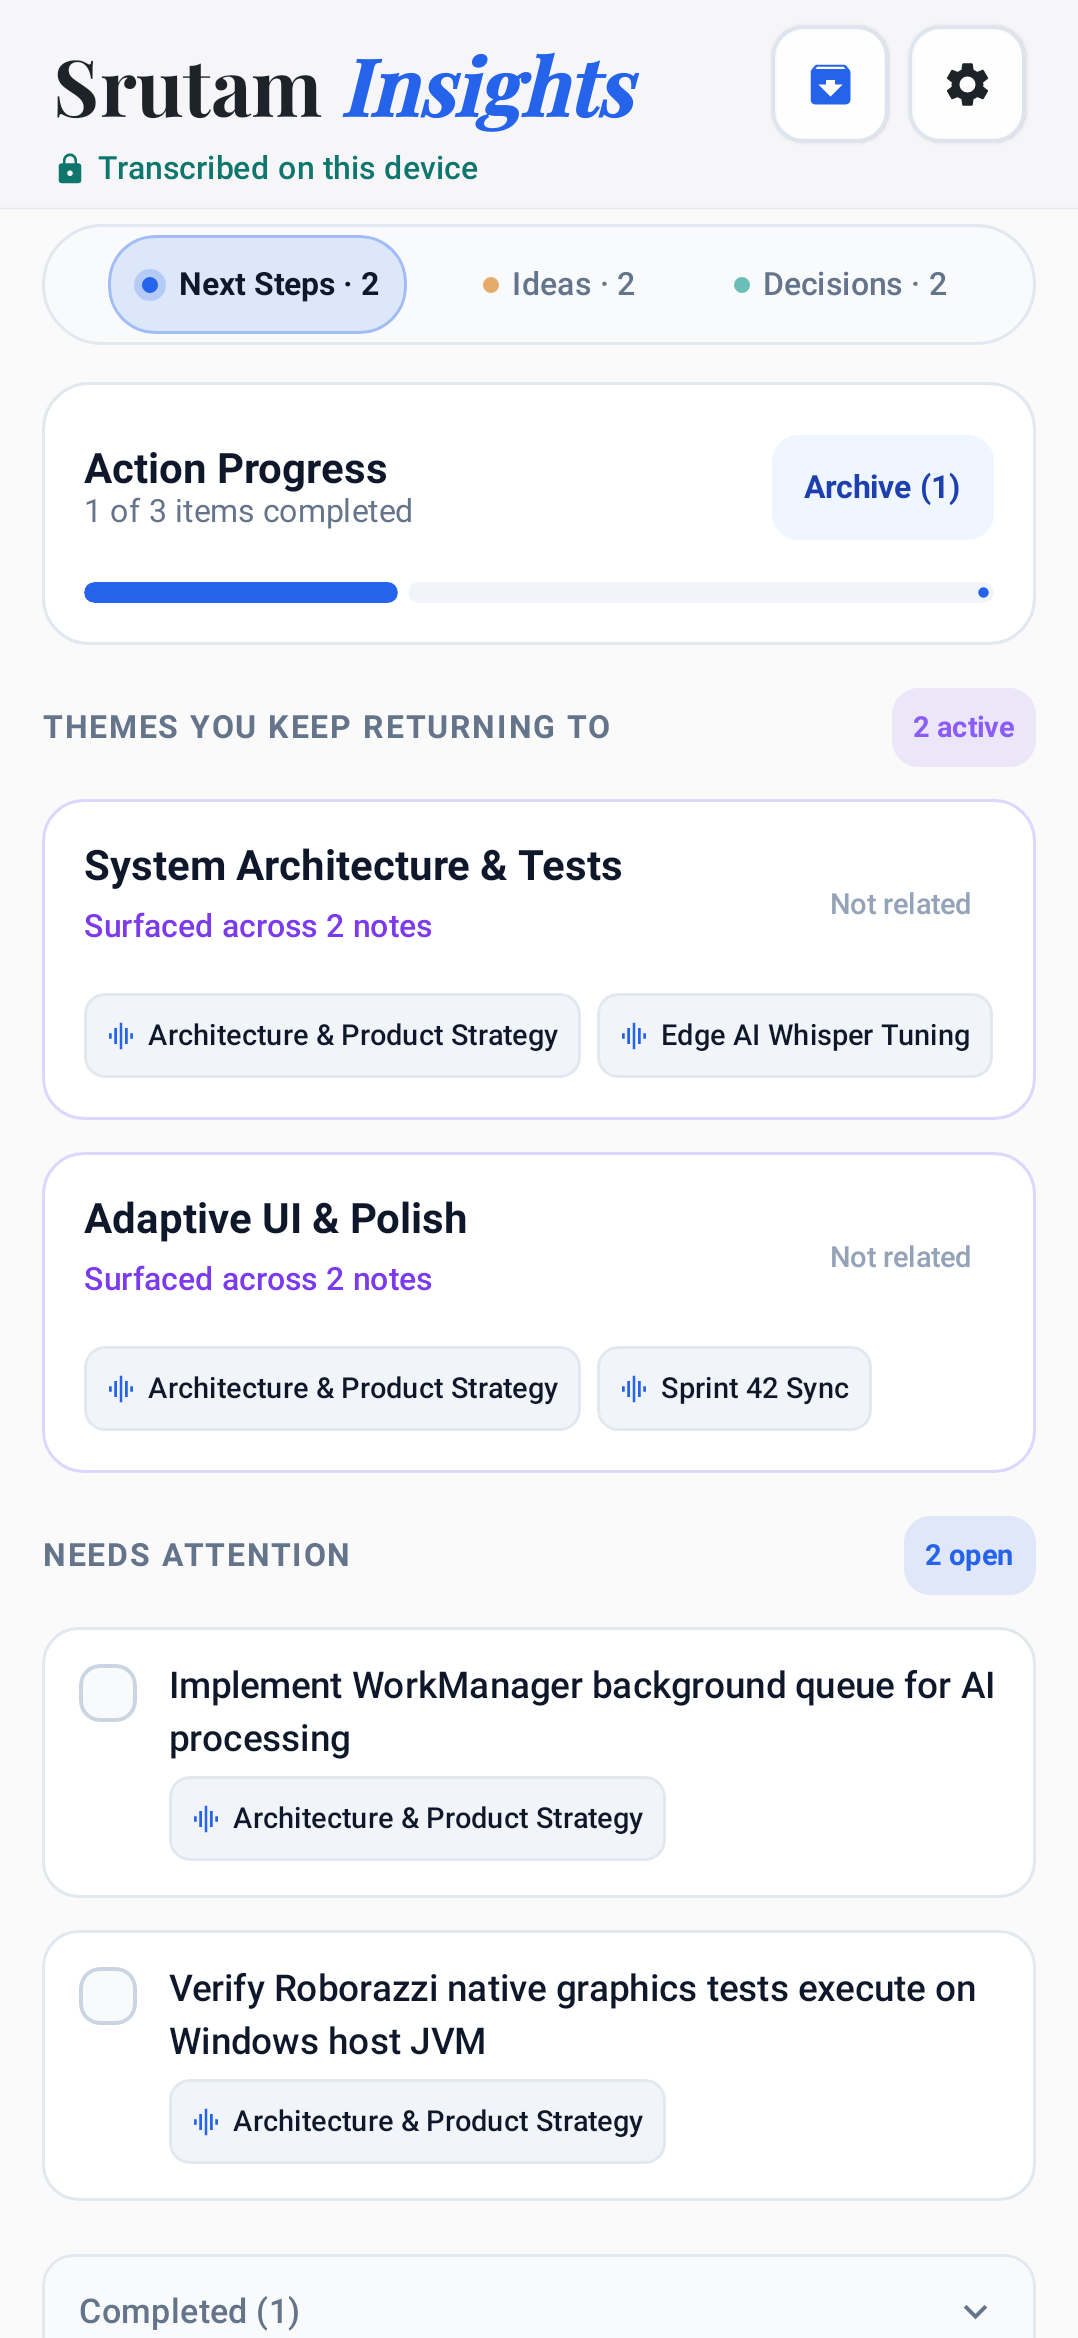
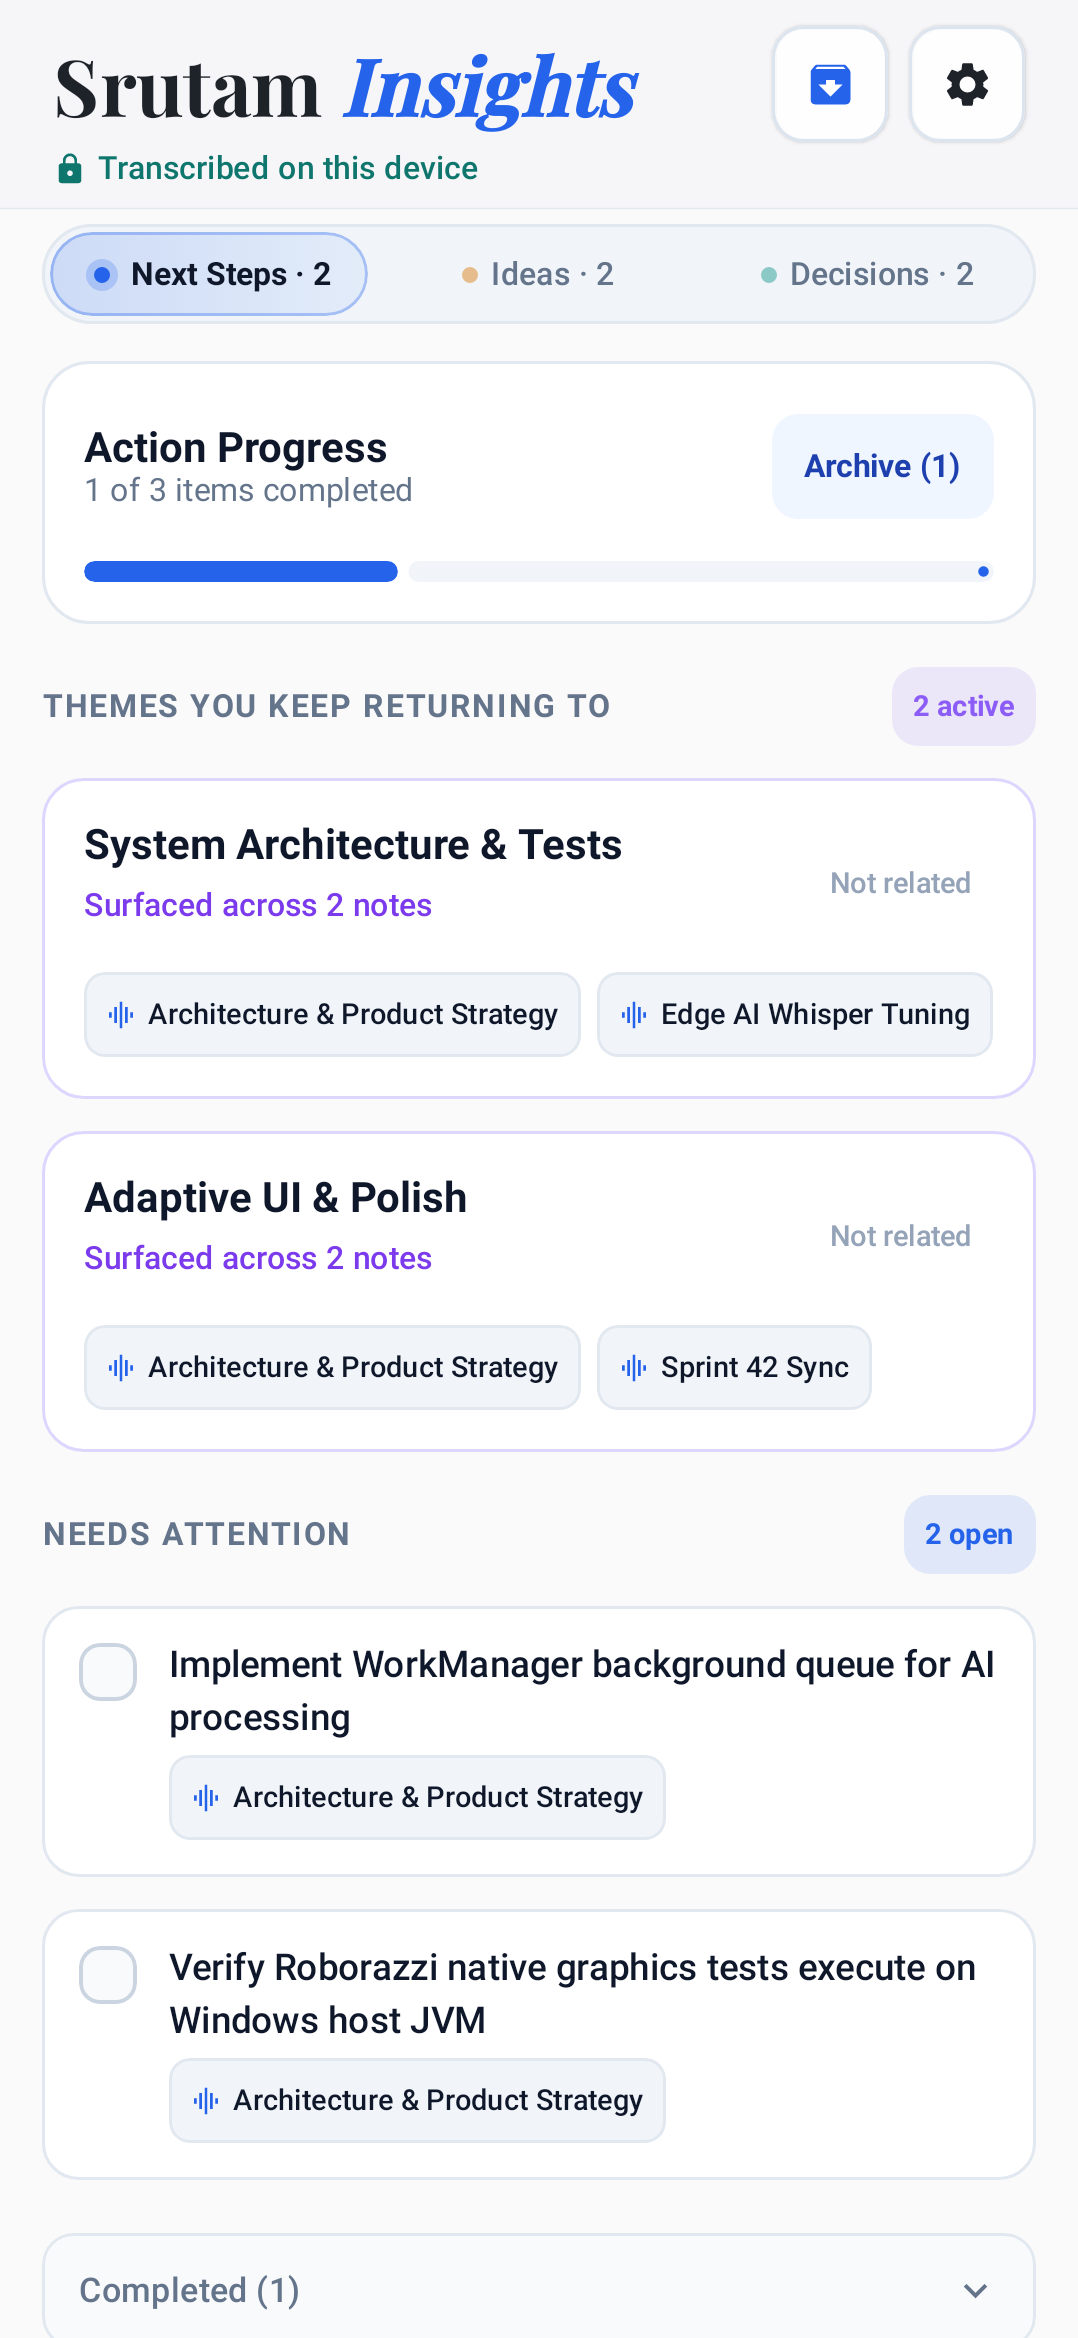
feat: insights segmented capsule filters with tailored light gradients

diff --git a/app/src/main/java/space/iamjustkrishna/srutam/ui/screens/ActionItemsScreen.kt b/app/src/main/java/space/iamjustkrishna/srutam/ui/screens/ActionItemsScreen.kt
@@ -5,6 +5,7 @@ import androidx.compose.animation.fadeIn
 import androidx.compose.animation.fadeOut
 import androidx.compose.foundation.BorderStroke
 import androidx.compose.foundation.background
+import androidx.compose.foundation.border
 import androidx.compose.foundation.clickable
 import androidx.compose.foundation.horizontalScroll
 import androidx.compose.foundation.layout.*
@@ -91,6 +92,7 @@ fun ActionItemsContent(
     allDecisions: List<InsightEntity>,
     themeClusters: List<ThemeCluster> = emptyList(),
     archivedActionsCount: Int = 0,
+    initialTab: InsightsTab = InsightsTab.NEXT_STEPS,
     onRecordingClick: (Long) -> Unit = {},
     onSettingsClick: () -> Unit = {},
     onActionToggle: (InsightEntity) -> Unit = {},
@@ -99,7 +101,7 @@ fun ActionItemsContent(
     onDismissTheme: (String) -> Unit = {},
     modifier: Modifier = Modifier
 ) {
-    var selectedTab by remember { mutableStateOf(InsightsTab.NEXT_STEPS) }
+    var selectedTab by remember { mutableStateOf(initialTab) }
     var showArchiveDialog by remember { mutableStateOf(false) }
     var isCompletedExpanded by remember { mutableStateOf(false) }
 
@@ -246,41 +248,55 @@ private fun SingleRowInsightsCapsule(
     decisionsCount: Int,
     modifier: Modifier = Modifier
 ) {
-    Surface(
-        shape = RoundedCornerShape(24.dp),
-        color = Color(0xFFF8FAFC),
-        border = BorderStroke(1.dp, Color(0xFFE2E8F0)),
-        modifier = modifier.fillMaxWidth()
+    Row(
+        modifier = modifier
+            .fillMaxWidth()
+            .height(38.dp)
+            .background(
+                color = Color(0xFFF1F5F9),
+                shape = RoundedCornerShape(19.dp)
+            )
+            .border(1.dp, Color(0xFFE2E8F0), RoundedCornerShape(19.dp))
+            .padding(3.dp),
+        horizontalArrangement = Arrangement.spacedBy(4.dp),
+        verticalAlignment = Alignment.CenterVertically
     ) {
-        Row(
-            modifier = Modifier
-                .fillMaxWidth()
-                .padding(horizontal = 4.dp, vertical = 4.dp),
-            verticalAlignment = Alignment.CenterVertically,
-            horizontalArrangement = Arrangement.SpaceEvenly
-        ) {
-            CapsuleTabItem(
-                label = "Next Steps",
-                count = nextStepsCount,
-                dotColor = CobaltBlue,
-                isSelected = selectedTab == InsightsTab.NEXT_STEPS,
-                onClick = { onTabSelected(InsightsTab.NEXT_STEPS) }
-            )
-            CapsuleTabItem(
-                label = "Ideas",
-                count = ideasCount,
-                dotColor = Color(0xFFD97706),
-                isSelected = selectedTab == InsightsTab.IDEAS,
-                onClick = { onTabSelected(InsightsTab.IDEAS) }
-            )
-            CapsuleTabItem(
-                label = "Decisions",
-                count = decisionsCount,
-                dotColor = Color(0xFF0D9488),
-                isSelected = selectedTab == InsightsTab.DECISIONS,
-                onClick = { onTabSelected(InsightsTab.DECISIONS) }
-            )
-        }
+        CapsuleTabItem(
+            label = "Next Steps",
+            count = nextStepsCount,
+            dotColor = CobaltBlue,
+            gradientColors = listOf(
+                Color(0xFF2563EB).copy(alpha = 0.18f),
+                Color(0xFF3B82F6).copy(alpha = 0.08f)
+            ),
+            isSelected = selectedTab == InsightsTab.NEXT_STEPS,
+            onClick = { onTabSelected(InsightsTab.NEXT_STEPS) },
+            modifier = Modifier.weight(1f)
+        )
+        CapsuleTabItem(
+            label = "Ideas",
+            count = ideasCount,
+            dotColor = Color(0xFFD97706),
+            gradientColors = listOf(
+                Color(0xFFD97706).copy(alpha = 0.18f),
+                Color(0xFFF59E0B).copy(alpha = 0.08f)
+            ),
+            isSelected = selectedTab == InsightsTab.IDEAS,
+            onClick = { onTabSelected(InsightsTab.IDEAS) },
+            modifier = Modifier.weight(1f)
+        )
+        CapsuleTabItem(
+            label = "Decisions",
+            count = decisionsCount,
+            dotColor = Color(0xFF0D9488),
+            gradientColors = listOf(
+                Color(0xFF0D9488).copy(alpha = 0.18f),
+                Color(0xFF14B8A6).copy(alpha = 0.08f)
+            ),
+            isSelected = selectedTab == InsightsTab.DECISIONS,
+            onClick = { onTabSelected(InsightsTab.DECISIONS) },
+            modifier = Modifier.weight(1f)
+        )
     }
 }
 
@@ -289,20 +305,38 @@ private fun CapsuleTabItem(
     label: String,
     count: Int,
     dotColor: Color,
+    gradientColors: List<Color>,
     isSelected: Boolean,
-    onClick: () -> Unit
+    onClick: () -> Unit,
+    modifier: Modifier = Modifier
 ) {
-    Surface(
-        shape = RoundedCornerShape(18.dp),
-        color = if (isSelected) dotColor.copy(alpha = 0.12f) else Color.Transparent,
-        border = if (isSelected) BorderStroke(1.dp, dotColor.copy(alpha = 0.32f)) else null,
-        modifier = Modifier
-            .clip(RoundedCornerShape(18.dp))
-            .clickable(onClick = onClick)
+    val shape = RoundedCornerShape(16.dp)
+    Box(
+        modifier = modifier
+            .fillMaxHeight()
+            .clip(shape)
+            .then(
+                if (isSelected) {
+                    Modifier
+                        .background(
+                            brush = Brush.horizontalGradient(gradientColors),
+                            shape = shape
+                        )
+                        .border(
+                            BorderStroke(1.dp, dotColor.copy(alpha = 0.32f)),
+                            shape = shape
+                        )
+                } else {
+                    Modifier
+                }
+            )
+            .clickable(onClick = onClick),
+        contentAlignment = Alignment.Center
     ) {
         Row(
             verticalAlignment = Alignment.CenterVertically,
-            modifier = Modifier.padding(horizontal = if (isSelected) 10.dp else 8.dp, vertical = 7.dp)
+            horizontalArrangement = Arrangement.Center,
+            modifier = Modifier.padding(horizontal = 4.dp)
         ) {
             if (isSelected) {
                 Box(
@@ -321,7 +355,7 @@ private fun CapsuleTabItem(
                 Box(
                     modifier = Modifier
                         .size(6.dp)
-                        .background(dotColor.copy(alpha = 0.6f), CircleShape)
+                        .background(dotColor.copy(alpha = 0.45f), CircleShape)
                 )
             }
             Spacer(modifier = Modifier.width(5.dp))
@@ -331,7 +365,8 @@ private fun CapsuleTabItem(
                 fontWeight = if (isSelected) FontWeight.Bold else FontWeight.Medium,
                 color = if (isSelected) Color(0xFF0F172A) else TextSecondary,
                 maxLines = 1,
-                softWrap = false
+                softWrap = false,
+                overflow = TextOverflow.Ellipsis
             )
         }
     }

diff --git a/app/src/main/java/space/iamjustkrishna/srutam/ui/screens/ScreenMatrixPreviews.kt b/app/src/main/java/space/iamjustkrishna/srutam/ui/screens/ScreenMatrixPreviews.kt
@@ -254,16 +254,27 @@ fun MatrixDetailPreview() {
 }
 
 @Composable
-fun MatrixInsightsPreview() {
+fun MatrixInsightsPreview(initialTab: InsightsTab = InsightsTab.NEXT_STEPS) {
     SrutamTheme {
         ActionItemsContent(
             activeActions = ScreenMatrixMocks.mockActiveActions,
             allIdeas = ScreenMatrixMocks.mockIdeas,
             allDecisions = ScreenMatrixMocks.mockDecisions,
             themeClusters = ScreenMatrixMocks.mockThemeClusters,
-            archivedActionsCount = 1
+            archivedActionsCount = 1,
+            initialTab = initialTab
         )
     }
+}
+
+@Composable
+fun MatrixInsightsIdeasPreview() {
+    MatrixInsightsPreview(initialTab = InsightsTab.IDEAS)
+}
+
+@Composable
+fun MatrixInsightsDecisionsPreview() {
+    MatrixInsightsPreview(initialTab = InsightsTab.DECISIONS)
 }
 
 @Composable

diff --git a/app/src/test/java/space/iamjustkrishna/srutam/matrix/BaseScreenMatrixTest.kt b/app/src/test/java/space/iamjustkrishna/srutam/matrix/BaseScreenMatrixTest.kt
@@ -66,6 +66,20 @@ abstract class BaseScreenMatrixTest(private val deviceFolder: String) {
     }
 
     @Test
+    fun capture_06_insights_ideas() {
+        captureScreen("06_insights_ideas") {
+            MatrixInsightsIdeasPreview()
+        }
+    }
+
+    @Test
+    fun capture_06_insights_decisions() {
+        captureScreen("06_insights_decisions") {
+            MatrixInsightsDecisionsPreview()
+        }
+    }
+
+    @Test
     fun capture_07_copilot_chat() {
         captureScreen("07_copilot_chat") {
             MatrixCopilotPreview()

diff --git a/.agents/state/current.md b/.agents/state/current.md
@@ -107,7 +107,11 @@
   - Created headless screenshot matrix tests across 5 canonical device profiles: `phone-compact` (360x640 dp, xhdpi), `phone-standard` (411x891 dp, 420dpi), `foldable` (673x841 dp, 420dpi), `tablet-7inch` (600x960 dp, hdpi), and `tablet-10inch` (1280x800 dp, mdpi).
   - Decoupled 8 core screens into stateless previewable composables and created `ScreenMatrixPreviews.kt` with realistic deterministic mock data.
   - Successfully generated and validated all 40 full-screen snapshots in `screenshots/screen-matrix/{device}/{screen}.png` in ~45 seconds on pure JVM without emulators or physical devices.
-  - Implemented the `screen-matrix-agent` specialist agent and `/screen-matrix` skill for automated one-shot regression sweeps.
+- [x] **Insights Segmented Capsule Filters & Category Light Gradients**:
+  - Redesigned `SingleRowInsightsCapsule` with equal 1/3 partition weighting (`Modifier.weight(1f).fillMaxHeight()`) inside a 38dp capsule container with 3dp insets.
+  - Implemented category-tailored light horizontal gradients on selected tabs: Cobalt Blue (`#2563EB` 18% to 8%) for Next Steps, Warm Amber (`#D97706` 18% to 8%) for Ideas, and Teal/Emerald (`#0D9488` 18% to 8%) for Decisions.
+  - Added glowing concentric jewel indicators and bold text for active tabs, with centered muted dots for inactive tabs.
+  - Verified and snapshotted across all 5 device profiles on the JVM and installed directly to connected hardware.
 
 ## Planned Next Direction
 - [ ] **Track C / Cloud and MCP Sync**: Sync `InsightEntity` records with Srutam Cloud / MCP server.

diff --git a/.agents/state/decisions.md b/.agents/state/decisions.md
@@ -198,3 +198,10 @@
   4. **Deterministic Mock Previews**: Created `ScreenMatrixPreviews.kt` providing self-contained, realistic mock models and data for all screens with zero network or database dependencies.
   5. **Snapshot Storage Hierarchy**: Saved full-screen PNGs to `screenshots/screen-matrix/{device}/{screen}.png` via relative path resolution from subproject `app/` to project root.
   6. **Universal Specialist Agent & Skill**: Registered `screen-matrix-agent` in `AGENTS.md` and created the `/screen-matrix` skill in the universal agent suite to automate future screen matrix sweeps on demand.
+
+## ADR-023: Insights Segmented Capsule Filters and Tailored Light Gradients
+- **Status**: Accepted
+- **Context**: The Insights top filter bar suffered from wrap_content layout asymmetry where active tabs floated as isolated small pills leaving unbalanced grey gaps on standard phones, foldables, and tablets. Tab switching also caused sibling items to jitter due to dynamic horizontal padding.
+- **Decision**:
+  1. Converted the filter bar into a true 38dp segmented control with 3dp container insets and equal-width partition weighting (`Modifier.weight(1f).fillMaxHeight()`), guaranteeing an exact 1/3 slot per tab with zero position shifting across all screen profiles.
+  2. Applied category-tailored light horizontal gradients to active tabs: Cobalt Blue (`#2563EB` 18% to 8%) for Next Steps, Warm Amber (`#D97706` 18% to 8%) for Ideas, and Teal/Emerald (`#0D9488` 18% to 8%) for Decisions, accompanied by 32% opacity border strokes and glowing concentric jewel dots.
